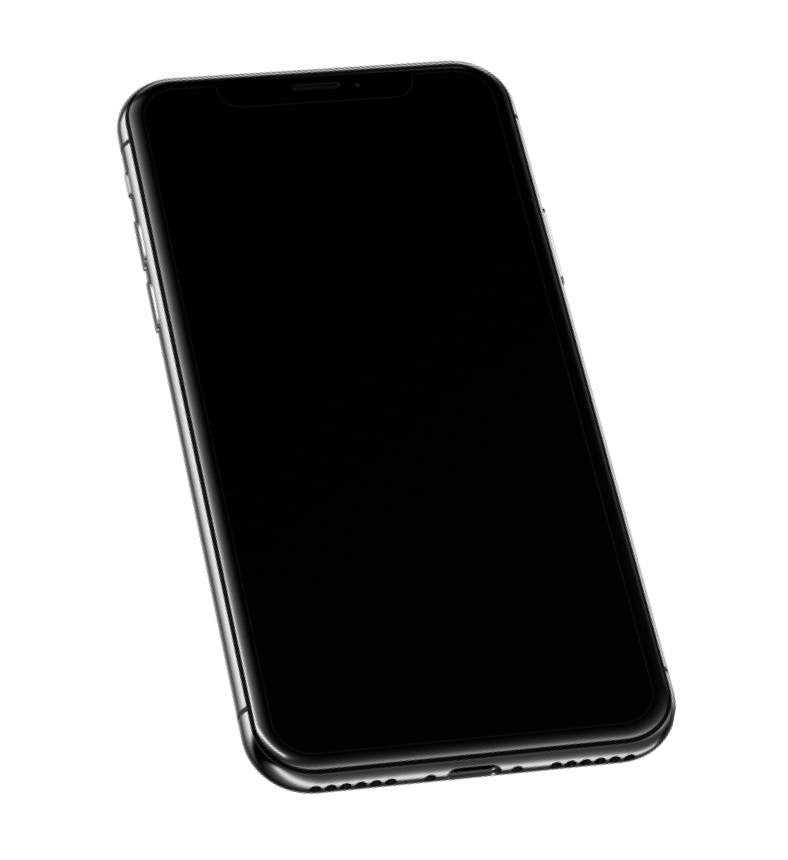
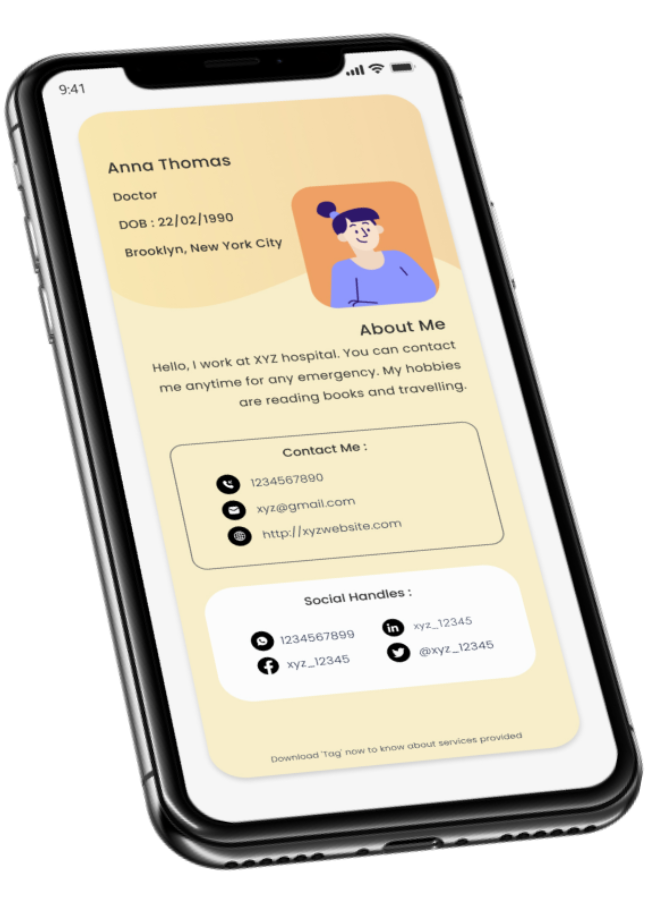
Landing Page Responsiveness done 👍

diff --git a/src/components/LandingPage/iPhoneSection.css b/src/components/LandingPage/iPhoneSection.css
@@ -1,36 +1,35 @@
 .iPhoneSection {
+  position: relative;
   display: flex;
   align-items: center;
   justify-content: center;
 }
 
 .iPhoneSection .path {
-  position: absolute;
-  width: 80%;
+  width: 95%;
+  height: 100%;
+  object-fit: contain;
   z-index: -11;
 }
 
 .detailsContainer {
-  height: 1000px;
-  position: relative;
+  position: absolute;
+  height: 100%;
   display: grid;
   width: 90vw;
   grid-template-columns: 1fr 1fr;
 }
 
 .iphoneContainer {
+  width: 100%;
   display: flex;
   align-items: center;
   justify-content: center;
 }
 
-.iphoneScreen {
-  top: calc(50% - 420px);
-}
-
-.iphone,
-.iphoneScreen {
-  position: absolute;
+.iphone {
+  width: 70%;
+  object-fit: contain;
 }
 
 .details {
@@ -61,4 +60,150 @@
   margin-top: 100px;
   text-transform: uppercase;
   color: var(--dark-orange);
+}
+
+@media screen and (max-width: 1250px) {
+  .simple {
+    font-size: 25px;
+  }
+
+  .boldText {
+    font-size: 40px;
+  }
+  .contact-us {
+    font-size: 17px;
+  }
+}
+
+@media screen and (max-width: 1100px) {
+  .simple {
+    font-size: 23px;
+  }
+
+  .boldText {
+    font-size: 36px;
+  }
+
+  .contact-us {
+    font-size: 14px;
+    margin-top: 60px;
+    padding: 17px 44px;
+  }
+}
+
+@media screen and (max-width: 860px) {
+  .simple {
+    font-size: 20px;
+  }
+
+  .boldText {
+    font-size: 30px;
+  }
+
+  .contact-us {
+    font-size: 10px;
+    margin-top: 30px;
+    padding: 15px 40px;
+  }
+}
+
+@media screen and (max-width: 720px) {
+  .iPhoneSection {
+    height: 700px;
+    align-items: flex-end;
+  }
+
+  .path {
+    height: auto;
+  }
+
+  .detailsContainer {
+    display: flex;
+    flex-direction: column;
+    width: 70%;
+    height: auto;
+  }
+
+  .iphoneContainer {
+    width: 80%;
+  }
+
+  .details {
+    margin: 0;
+    margin-bottom: 13%;
+    width: 100%;
+  }
+}
+
+@media screen and (max-width: 650px) {
+  .iPhoneSection {
+    height: 600px;
+  }
+
+  .detailsContainer {
+    width: 80%;
+  }
+
+  .iphoneContainer {
+    width: 80%;
+  }
+
+  .details {
+    margin: 0;
+    margin-bottom: 15%;
+  }
+
+  .simple {
+    font-size: 17px;
+  }
+
+  .boldText {
+    font-size: 26px;
+  }
+
+  .contact-us {
+    font-size: 10px;
+    margin-top: 20px;
+    padding: 12px 36px;
+  }
+}
+
+@media screen and (max-width: 550px) {
+  .iPhoneSection {
+    height: 500px;
+  }
+}
+
+@media screen and (max-width: 460px) {
+  .iPhoneSection {
+    height: 450px;
+  }
+  .simple {
+    font-size: 14px;
+  }
+
+  .boldText {
+    font-size: 20px;
+  }
+
+  .contact-us {
+    font-size: 8px;
+    margin-top: 10px;
+    padding: 10px 30px;
+  }
+  .details {
+    margin-bottom: 10%;
+  }
+}
+
+@media screen and (max-width: 420px) {
+  .iPhoneSection {
+    height: 400px;
+  }
+}
+
+@media screen and (max-width: 360px) {
+  .iPhoneSection {
+    height: 350px;
+  }
 }

diff --git a/src/components/LandingPage/Slider.css b/src/components/LandingPage/Slider.css
@@ -6,9 +6,7 @@
 
 .sliderItem {
   display: grid;
-  grid-template-columns: 1fr 1fr;
-  /* align-items: center;
-  justify-content: space-between; */
+  grid-template-columns: 60% 40%;
 }
 
 .ladyWithComputer {
@@ -51,7 +49,7 @@
 }
 
 .SliderDots {
-  margin: 250px 0 150px 0;
+  margin: 300px 0 300px 0;
   display: flex;
   align-items: center;
   justify-content: center;
@@ -70,4 +68,94 @@
 
 .dot.activeDot {
   background-color: var(--dark-orange);
+}
+
+@media screen and (max-width: 1500px) {
+  .SliderDots {
+    margin: 250px 0 100px 0;
+  }
+}
+
+@media screen and (max-width: 1250px) {
+  .SliderDots {
+    margin: 150px 0;
+  }
+}
+
+@media screen and (max-width: 1000px) {
+  .tag-line {
+    font-size: 20px;
+  }
+
+  .line-1 {
+    font-size: 20px;
+  }
+
+  .bold-line {
+    font-size: 40px;
+  }
+  .bottom-line {
+    font-size: 17px;
+  }
+
+  .SliderDots {
+    margin: 100px 0;
+  }
+}
+
+@media screen and (max-width: 900px) {
+  .Slider {
+    margin-top: 50px;
+  }
+}
+
+@media screen and (max-width: 850px) {
+  .line-1 {
+    margin-top: 25px;
+  }
+
+  .bottom-line {
+    margin: 20px 0 30px;
+  }
+
+  .sliderItem .create-a-card-button {
+    font-size: 15px;
+    padding: 10px 25px;
+  }
+
+  .sliderItem {
+    display: flex;
+    flex-direction: column;
+  }
+
+  .ladyWithComputer {
+    align-self: flex-end;
+    width: 350px;
+  }
+
+  .dot {
+    height: 15px;
+    width: 15px;
+  }
+}
+
+@media screen and (max-width: 520px) {
+  .tag-line {
+    font-size: 17px;
+  }
+
+  .line-1 {
+    font-size: 17px;
+  }
+
+  .bold-line {
+    font-size: 34px;
+  }
+  .bottom-line {
+    font-size: 14px;
+  }
+  .dot {
+    height: 12px;
+    width: 12px;
+  }
 }

diff --git a/src/components/LandingPage/IPhoneSection.jsx b/src/components/LandingPage/IPhoneSection.jsx
@@ -1,6 +1,5 @@
 import iPhone from "../../assets/iPhone.png";
 import iPhoneBack from "../../assets/iPhoneBack.png";
-import iPhoneScreen from "../../assets/iPhoneScreen.png";
 import "./iPhoneSection.css";
 
 const IPhoneSection = () => {
@@ -10,11 +9,6 @@ const IPhoneSection = () => {
       <div className="detailsContainer">
         <div className="iphoneContainer">
           <img src={iPhone} alt="iphone back" className="iphone" />
-          <img
-            src={iPhoneScreen}
-            alt="iphone screen"
-            className="iphoneScreen"
-          />
         </div>
         <div className="details">
           <div className="simple">Create Your</div>

diff --git a/src/components/LandingPage/Navbar.css b/src/components/LandingPage/Navbar.css
@@ -60,11 +60,12 @@
   position: absolute;
   top: 0;
   left: 0;
-  height: 100%;
-  width: 100%;
+  height: 100vh;
+  width: 100vw;
   background: #fff;
   justify-content: center;
   flex-direction: column;
+  z-index: 111;
 }
 
 @media screen and (max-width: 1250px) {
@@ -116,5 +117,11 @@
 
   .menuIcon {
     display: block;
+  }
+}
+
+@media screen and (max-width: 600px) {
+  .navbar {
+    padding: 1.5rem;
   }
 }

diff --git a/src/components/LandingPage/LandingPage.jsx b/src/components/LandingPage/LandingPage.jsx
@@ -7,7 +7,7 @@ import IPhoneSection from "./IPhoneSection";
 
 const LandingPage = () => {
   return (
-    <div style={{ marginBottom: "300px" }}>
+    <div style={{ marginBottom: "100px" }}>
       <Navbar />
       <img
         cka

diff --git a/src/components/LandingPage/LandingPage.css b/src/components/LandingPage/LandingPage.css
@@ -3,5 +3,5 @@
   top: 0;
   right: 0;
   z-index: -11;
-  width: 70%;
+  width: 60%;
 }
